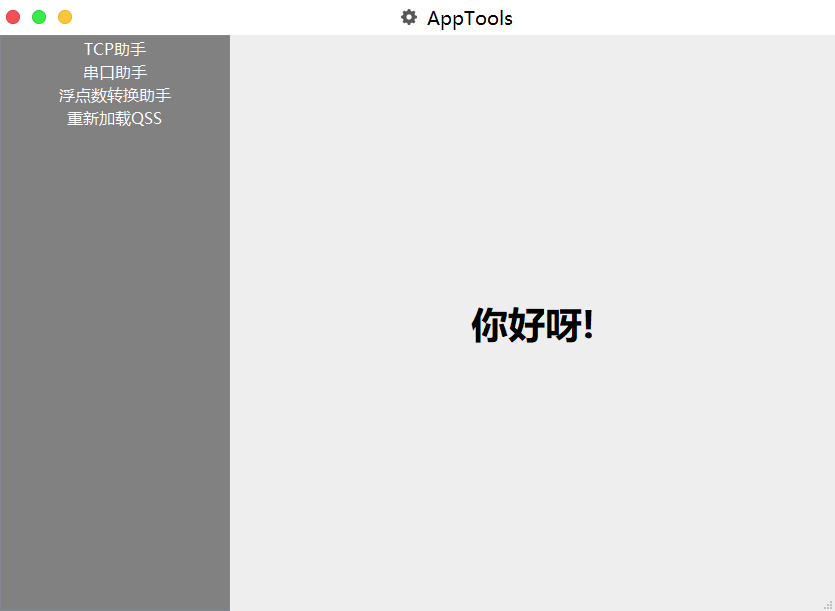
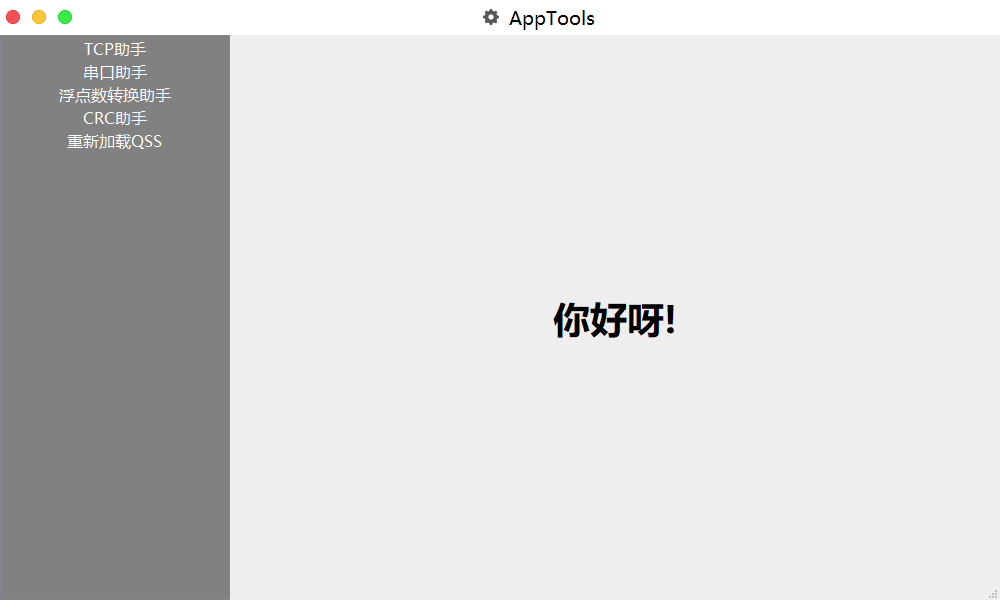
加入了一个求CRC_modbus的功能

diff --git a/AppTools/bin/qss/Light.css b/AppTools/bin/qss/Light.css
@@ -25,6 +25,14 @@ QListWidget#listWidget{
 }
 
 /******************************************************************************
+ *                                   QLabel
+ *****************************************************************************/
+ 
+ QLabel{
+
+ }
+
+/******************************************************************************
  *                                   QLineEdit
  *****************************************************************************/
 

diff --git a/AppTools/ui/CrcWidget.cpp b/AppTools/ui/CrcWidget.cpp
@@ -1,5 +1,10 @@
 #include "CrcWidget.h"
 #include "ui_CrcWidget.h"
+#include "../help/BinaryCvn.h"
+#include "../help/Crc.h"
+
+#include <QMessageBox>
+#include <QDebug>
 
 CrcWidget::CrcWidget(QWidget *parent) :
     QWidget(parent),
@@ -7,9 +12,44 @@ CrcWidget::CrcWidget(QWidget *parent) :
 {
     ui->setupUi(this);
     QApplication::setFont(QFont ("微软雅黑", 10, QFont::Normal, false));
+    QStringList comBoxItems;
+    comBoxItems<<"CRC_modbus";
+    ui->modelcbx->addItems(comBoxItems);
+    ui->modelcbx->setCurrentIndex(0);
+    QString crcLable;
+    crcLable="Instruction\n\nName:CRC_modbus\n\nWidth:16\n\nPoly:0x8005\n\nInit:0xFFFF";
+    ui->label->setText(crcLable);
 }
 
 CrcWidget::~CrcWidget()
 {
     delete ui;
+}
+
+void CrcWidget::on_calculate_clicked()
+{
+    QString currentItems=ui->modelcbx->currentText();
+    QString data=ui->data->toPlainText();
+    if(data.isEmpty())
+    {
+        QMessageBox::warning(this, "警告", "请输入需要计算的CRC数据",
+                             QMessageBox::Yes | QMessageBox::No, QMessageBox::Yes);
+        return;
+    }
+    QByteArray buffer=BinaryCvn::hexStrToByteArray(data);
+    int size=buffer.size();
+    unsigned char buffer_[100];
+    unsigned int crc;
+    unsigned int crc_[2];
+    for(int i=0;i<size;i++)
+        buffer_[i]=static_cast<unsigned char>(buffer[i]);
+    if(currentItems=="CRC_modbus")
+    {
+        crc=Crc::CRC_modbus(buffer_,size);
+        crc_[0]=crc>>8;
+        crc_[1]=crc&0xff;
+        qDebug()<<hex<<crc_[0]<<crc_[1];
+        ui->display->append(QString("%1结果为：%2 %3").arg(currentItems).
+                            arg(QString::number(crc_[0],16)).arg(QString::number(crc_[1],16)));
+    }
 }

diff --git a/AppTools/ui/mainwindow.cpp b/AppTools/ui/mainwindow.cpp
@@ -1,6 +1,6 @@
 #include "mainwindow.h"
 #include "ui_mainwindow.h"
-#include "helper/UiSet.h"
+#include "../help/UiSet.h"
 #include "SerialWidget.h"
 #include "TcpWidget.h"
 #include "CustomWidget.h"
@@ -109,7 +109,6 @@ void MainWindow::createListWidgetBtnMenu()
     ui->listWidget->addItems(toolList);
     for(int i=0;i<toolList.size();i++)
         ui->listWidget->item(i)->setTextAlignment(Qt::AlignCenter);
-
 
     //    QListWidgetItem *tool;
     //    tool=new QListWidgetItem(QString("TCP助手"),ui->listWidget);

diff --git a/AppTools/ui/FloatWidget.cpp b/AppTools/ui/FloatWidget.cpp
@@ -1,6 +1,6 @@
 #include "FloatWidget.h"
 #include "ui_FloatWidget.h"
-#include "helper/BinaryCvn.h"
+#include "../help/BinaryCvn.h"
 
 FloatWidget::FloatWidget(QWidget *parent) :
     QWidget(parent),
@@ -36,8 +36,7 @@ void FloatWidget::on_convFlaot_clicked()
         return;
     }
     QString h=ui->HexLine->text();
-    QByteArray buffer;
-    buffer=BinaryCvn::hexStrToByteArray(h);
+    QByteArray buffer=BinaryCvn::hexStrToByteArray(h);
     unsigned char buf[4];
     for(int i=0;i<4;i++)
     {

diff --git a/AppTools/help/Crc.cpp b/AppTools/help/Crc.cpp
@@ -1,0 +1,25 @@
+#include "Crc.h"
+
+unsigned int Crc::CRC_modbus(unsigned char *ptr,int len)
+{
+    unsigned char i;
+    unsigned int crc = 0xFFFF;
+    if (len == 0)
+        len = 1;
+    while (len--)
+    {
+        crc ^= *ptr;
+        for (i = 0; i < 8; i++)
+        {
+            if (crc & 1) {
+                crc >>= 1;
+                crc ^= 0xA001;
+            }
+            else {
+                crc >>= 1;
+            }
+        }
+        ptr++;
+    }
+    return(crc);
+}

diff --git a/AppTools/ui/TcpWidget.cpp b/AppTools/ui/TcpWidget.cpp
@@ -1,8 +1,8 @@
-#include "helper/UiSet.h"
-#include "helper/AppCfg.h"
-#include "TcpWidget.h"
+#include "TcpWidget.h"
 #include "ui_TcpWidget.h"
-#include "helper/BinaryCvn.h"
+#include "../help/BinaryCvn.h"
+#include "../help/UiSet.h"
+#include "../help/AppCfg.h"
 
 #include <QNetworkInterface>
 #include <QTcpSocket>

diff --git a/AppTools/ui/SerialWidget.cpp b/AppTools/ui/SerialWidget.cpp
@@ -1,8 +1,9 @@
 #include "SerialWidget.h"
 #include "ui_SerialWidget.h"
-#include "helper/UiSet.h"
-#include "helper/BinaryCvn.h"
-#include "helper/AppCfg.h"
+#include "../help/UiSet.h"
+#include "../help/BinaryCvn.h"
+#include "../help/AppCfg.h"
+
 #include <QSerialPortInfo>
 
 #pragma execution_character_set("utf-8")

diff --git a/AppTools/ui/CrcWidget.h b/AppTools/ui/CrcWidget.h
@@ -15,6 +15,9 @@ public:
     explicit CrcWidget(QWidget *parent = nullptr);
     ~CrcWidget();
 
+private slots:
+    void on_calculate_clicked();
+
 private:
     Ui::CrcWidget *ui;
 };

diff --git a/AppTools/help/Crc.h b/AppTools/help/Crc.h
@@ -1,0 +1,11 @@
+#ifndef CRC_H
+#define CRC_H
+
+
+class Crc
+{
+public:
+    static unsigned int CRC_modbus(unsigned char *ptr,int len);
+};
+
+#endif // CRC_H

diff --git a/AppTools/main.cpp b/AppTools/main.cpp
@@ -1,5 +1,5 @@
 #include "ui/mainwindow.h"
-#include "helper/UiSet.h"
+#include "help/UiSet.h"
 
 #include <QApplication>
 
